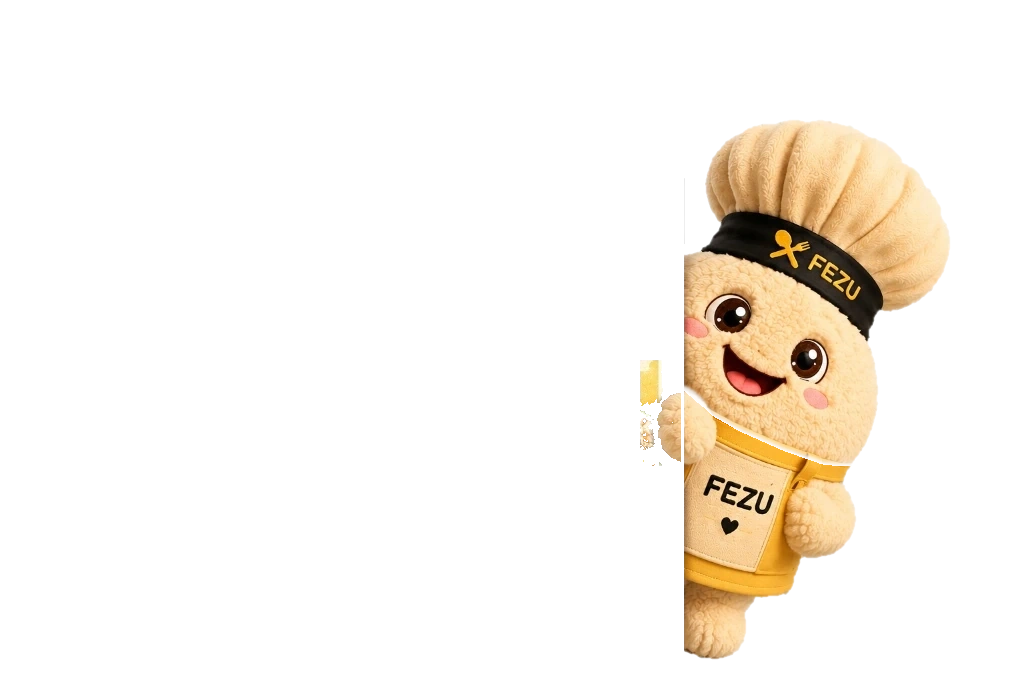
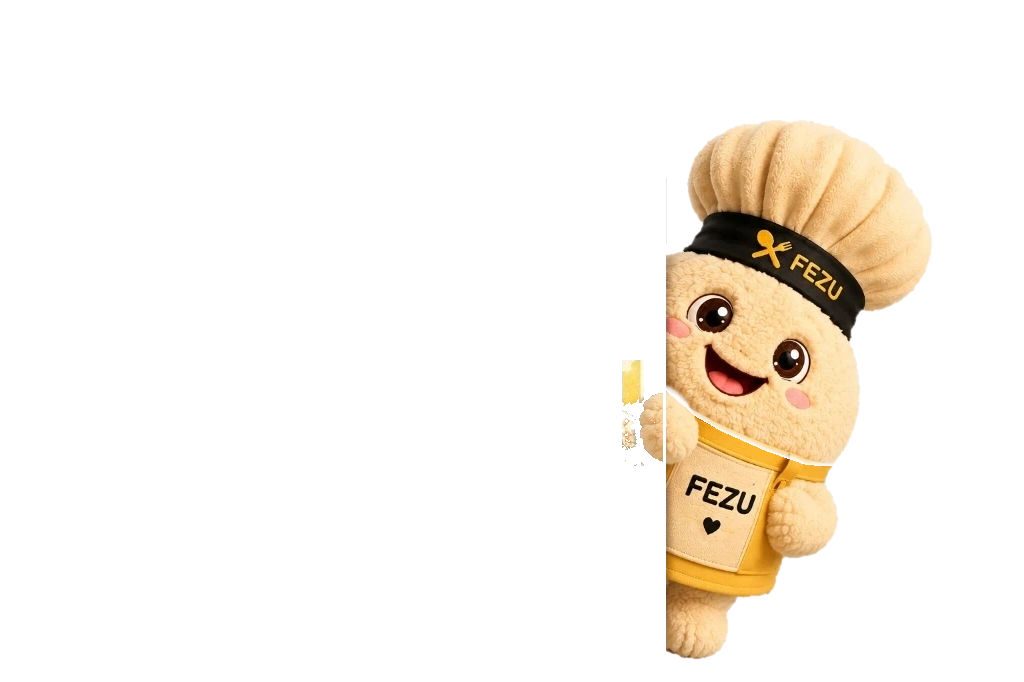
fix: close gap between phone and Fezu, increase animation set size to 1040px, and configure fresh-load hide-out with scroll-down hide-in

Changed region(s): [[0.5938, 0.154, 0.9375, 0.9853]]

diff --git a/src/components/PeekingGrandmaFezuBanner.tsx b/src/components/PeekingGrandmaFezuBanner.tsx
@@ -17,21 +17,22 @@ export const PeekingGrandmaFezuBanner: React.FC = () => {
       currentHide += (targetHide - currentHide) * 0.08;
 
       // HIDE IN BEHIND MOBILE BANNER AS USER SCROLLS DOWN:
-      // - When banner is comfortably on screen:
+      // - Freshly opened website (scrollY == 0, hero in view):
       //   Grandma and Fezu are fully peeked out in their vibrant hero positions (0px translation)!
-      // - As user scrolls past:
-      //   Grandma glides smoothly +260px directly to the right, sliding completely behind the phone!
-      //   Fezu glides smoothly -295px directly to the left, sliding completely behind the phone!
-      // - Characters fade out to 0 as they complete their tuck behind the phone, ensuring 100% disappearance.
-      const grandmaTransX = currentHide * 260;
-      const grandmaTransY = currentHide * 25;
-      const grandmaTilt = currentHide * 4;
-      const grandmaOpacity = Math.max(1 - currentHide * 1.25, 0);
+      // - As user scrolls down past the hero:
+      //   Grandma glides smoothly +255px directly to the right, sliding completely behind the phone!
+      //   Fezu glides smoothly -280px directly to the left, sliding completely behind the phone!
+      // - When user scrolls back up / crosses back to page:
+      //   Grandma and Fezu peek back out smoothly from behind the phone!
+      const grandmaTransX = currentHide * 255;
+      const grandmaTransY = currentHide * 20;
+      const grandmaTilt = currentHide * 3.5;
+      const grandmaOpacity = Math.max(1 - currentHide * 1.3, 0);
 
-      const fezuTransX = -currentHide * 295;
-      const fezuTransY = currentHide * 25;
-      const fezuTilt = -currentHide * 4;
-      const fezuOpacity = Math.max(1 - currentHide * 1.25, 0);
+      const fezuTransX = -currentHide * 280;
+      const fezuTransY = currentHide * 20;
+      const fezuTilt = -currentHide * 3.5;
+      const fezuOpacity = Math.max(1 - currentHide * 1.3, 0);
 
       // Grandma Complete Character (z-index: 10 - BEHIND PHONE)
       if (grandmaRef.current) {
@@ -56,15 +57,14 @@ export const PeekingGrandmaFezuBanner: React.FC = () => {
     };
 
     const handleScroll = () => {
-      if (!stageRef.current) return;
-      const rect = stageRef.current.getBoundingClientRect();
-      const winHeight = window.innerHeight;
-
-      // When banner is nicely visible in upper-mid viewport: targetHide is 0 (characters fully peeking)
-      // As user scrolls and stage approaches top of screen:
-      // targetHide goes smoothly from 0 to 1 (characters hide completely behind the phone)
-      const visibleThreshold = winHeight * 0.25;
-      const scrollProgress = (visibleThreshold - rect.top) / 450;
+      // Calculate scroll progress from top of the page:
+      // When user freshly opens the website (window.scrollY == 0):
+      // targetHide is 0 (Grandma and Fezu are fully peeked out / hide-out).
+      // As user scrolls down past the hero (0px to 420px of scroll):
+      // targetHide smoothly increases from 0 to 1 (Grandma and Fezu glide behind the phone / hide-in).
+      // If user scrolls back up, targetHide returns smoothly from 1 to 0 (peeking back out / hide-out).
+      const scrollY = window.scrollY || window.pageYOffset || 0;
+      const scrollProgress = scrollY / 380;
       targetHide = Math.min(Math.max(scrollProgress, 0), 1);
     };
 
@@ -95,7 +95,7 @@ export const PeekingGrandmaFezuBanner: React.FC = () => {
         .feazto-stage {
           position: relative;
           width: 100%;
-          max-width: 960px;
+          max-width: 1040px;
           aspect-ratio: 1024 / 682;
           margin: 0 auto;
           background: transparent !important;

diff --git a/src/components/EditorialHero.tsx b/src/components/EditorialHero.tsx
@@ -463,7 +463,7 @@ export const EditorialHero: React.FC<EditorialHeroProps> = ({ navigate }) => {
         .hero-plenti-phone-container {
           position: relative;
           width: 100%;
-          max-width: 960px;
+          max-width: 1040px;
           display: flex;
           justify-content: center;
         }
